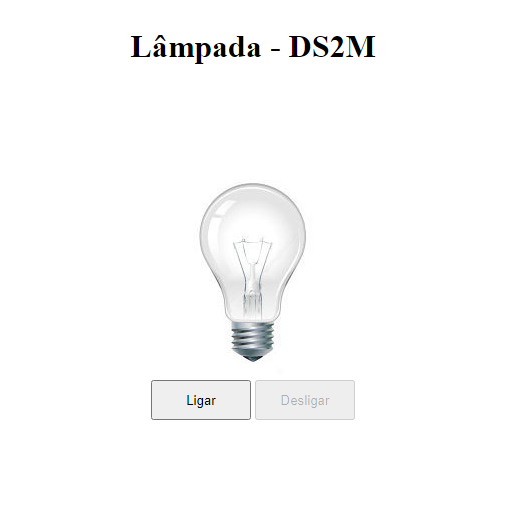
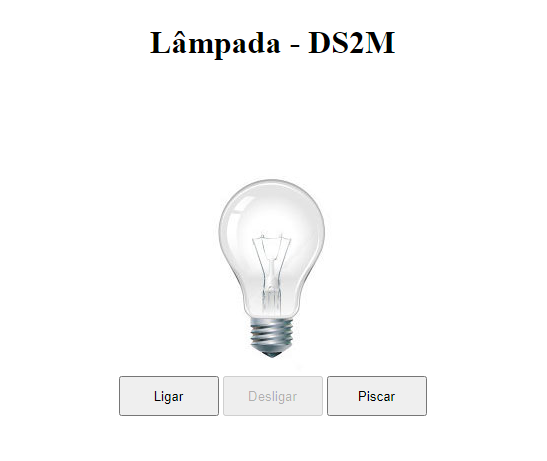
imagens e README.md atualizado

diff --git a/README.md b/README.md
@@ -2,7 +2,7 @@
 
 <b>Projeto criado com o objetivo didático para as aulas de Programação Web Front-End (PWFE) do curso Desenvolvimento de Sistemas do [SENAI Jandira](https://jandira.sp.senai.br/), sobre orientação da [Bruna Lozinski](https://github.com/brunalozinski)<b>
 
-<b>O projeto consiste em criar uma lâmpada que tenha três ações, ligar, desligar e quebrar, utilizando vários eventos.<b>
+<b>O projeto consiste em criar uma lâmpada que tenha quatro ações, ligar, desligar, quebrar e piscar, utilizando vários eventos.<b>
 
 ![](img/projetoImg.PNG)
 
